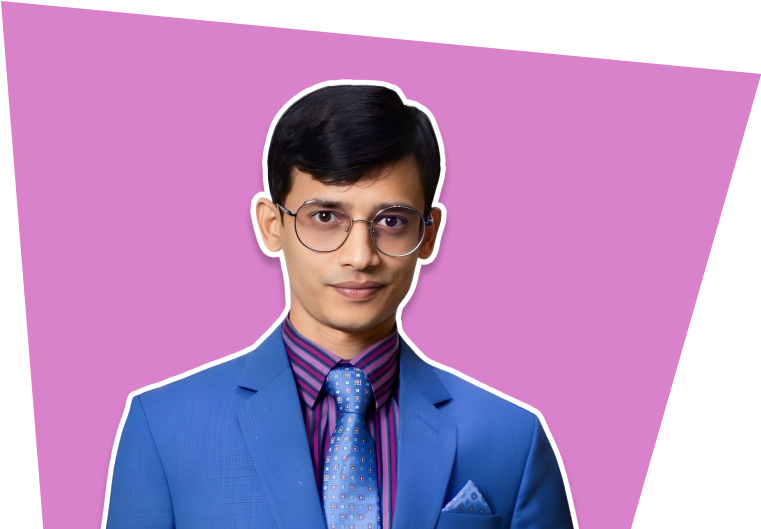
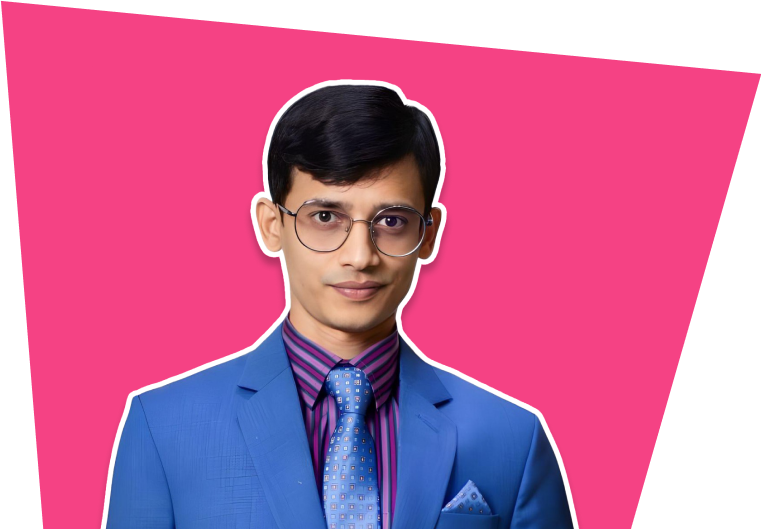
updated text and img color

diff --git a/components/home/manage/Team.tsx b/components/home/manage/Team.tsx
@@ -44,8 +44,7 @@ const Team = () => {
 
       <div className="w-full lg:w-4/6 m-auto flex-grow">
         <h4 className="text-lg text-center text-gray-400 max-w-full flex-grow">
-          Tag¹ facilitates an instant and connection. Activate immersive brand
-          experiences with just a tap.
+          One dashboard to create,deploy, and manage your companies network.
         </h4>
         {/* <h5 className="bg-clip-text bg-transparent text-transparent ">
           ......................................................................................................................................................................................................................................................................................................

diff --git a/components/home/smartSite/SmartSite.tsx b/components/home/smartSite/SmartSite.tsx
@@ -30,8 +30,8 @@ const SmartSite = () => {
         />
         <div className="lg:w-2/3 m-auto">
           <h4 className="text-base text-center text-gray-400 pt-4 ">
-            Use your smartsite as your companies townsquare and share it with
-            NFC, QR or Apple Wallet.
+            Collect data from your employees sales and marketing interactions to
+            help make informed decisions and grow your companies network.
           </h4>
         </div>
       </div>

diff --git a/components/home/manage/Dynamic.tsx b/components/home/manage/Dynamic.tsx
@@ -29,8 +29,8 @@ const Dynamic = () => {
       </div>
       <div className="w-full lg:w-4/6 m-auto">
         <h4 className="text-base text-center text-gray-400">
-          Tag¹ facilitates an instant and connection. Activate immersive brand
-          experiences with just a tap.
+          The last QR your company will need. Update on the go. No more printing
+          out a new QR every time you update a link.
         </h4>
       </div>
     </ScrollMotionEffect>

diff --git a/components/hardware/DevicesInteraction.jsx b/components/hardware/DevicesInteraction.jsx
@@ -186,8 +186,8 @@ const DevicesInteraction = () => {
       //  duration="2000"
       >
         <p className="text-lg text-stone-950 text-center mt-4 max-w-[600px] mx-auto">
-          Program the devices with the Swop App. Will tap on other devices with
-          or without the swop app downloaded.
+          Program our devices in the app. Our devices can be tapped on any
+          phone, whether they have the swop app or not.
         </p>
       </div>
 

diff --git a/components/home/manage/Transact.tsx b/components/home/manage/Transact.tsx
@@ -38,8 +38,8 @@ const Transact = () => {
       </div>
       <div className="w-full lg:w-4/6 m-auto">
         <h4 className="text-base text-center text-gray-400">
-          Tag¹ facilitates an instant and connection. Activate immersive brand
-          experiences with just a tap.
+          Accept Crypto payment for your store today. Instantly convert card
+          payments or crypto into USDC.
         </h4>
       </div>
     </ScrollMotionEffect>

diff --git a/components/home/manage/Earn.tsx b/components/home/manage/Earn.tsx
@@ -41,8 +41,8 @@ const Earn = () => {
 
       <div className="w-full lg:w-4/6 m-auto bg-white">
         <h4 className="text-base text-center text-gray-400 z-40">
-          Tag¹ facilitates an instant and connection. Activate immersive brand
-          experiences with just a tap.
+          Swop Socialfi brings the power back to individual by rewarding your
+          digital footprint.
         </h4>
       </div>
     </ScrollMotionEffect>

diff --git a/components/home/manage/Build.tsx b/components/home/manage/Build.tsx
@@ -37,8 +37,8 @@ const Build = () => {
       </div>
       <div className="w-full lg:w-4/6 m-auto">
         <h4 className="text-base text-center text-gray-400">
-          Tag¹ facilitates an instant and connection. Activate immersive brand
-          experiences with just a tap.
+          Create and reward your network with web3 incentives through a
+          smartsite.
         </h4>
       </div>
     </ScrollMotionEffect>

diff --git a/components/home/smartSite/Social.tsx b/components/home/smartSite/Social.tsx
@@ -32,8 +32,8 @@ const Leads = () => {
 
       <div className=" lg:w-2/3 m-auto">
         <h5 className="text-base text-center text-gray-400">
-          Leads from your Smartsites flow right to the dashboard where you earn
-          $Swop for verified Leads
+          Leads get sent directly to your swop dashboard where you can export to
+          your CRM.
         </h5>
       </div>
     </ScrollMotionEffect>

diff --git a/components/home/smartSite/Analytics.tsx b/components/home/smartSite/Analytics.tsx
@@ -30,8 +30,7 @@ const Analytics = () => {
 
       <div className="px-4 pb-4">
         <h4 className="text-base text-center lg:w-2/3 m-auto text-gray-400">
-          Track your employees networking and collect data for your CRM while
-          providing insights to increase ROI
+          Earn tokens and receive useful insights from your Smartsite.
         </h4>
       </div>
     </ScrollMotionEffect>

diff --git a/components/home/smartSite/Self.tsx b/components/home/smartSite/Self.tsx
@@ -29,8 +29,8 @@ const Bank = () => {
 
       <div className="lg:w-2/3 m-auto">
         <h5 className="text-base text-center text-gray-400">
-          Accept Payments directly your Smartsites and it deposits instantly in
-          your wallet.
+          Get your own virtual account that lets you send and receive payments
+          globally.
         </h5>
       </div>
     </ScrollMotionEffect>
